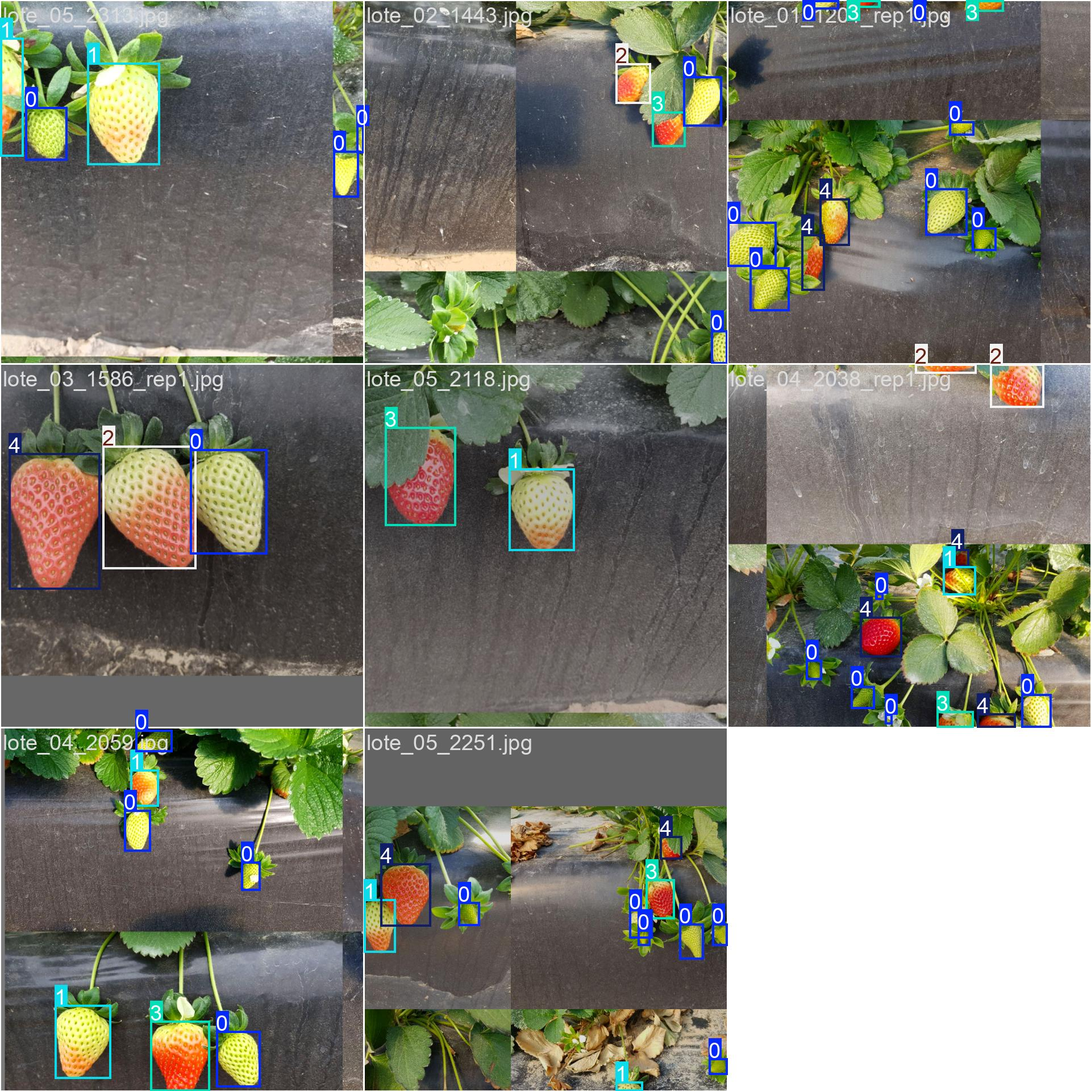
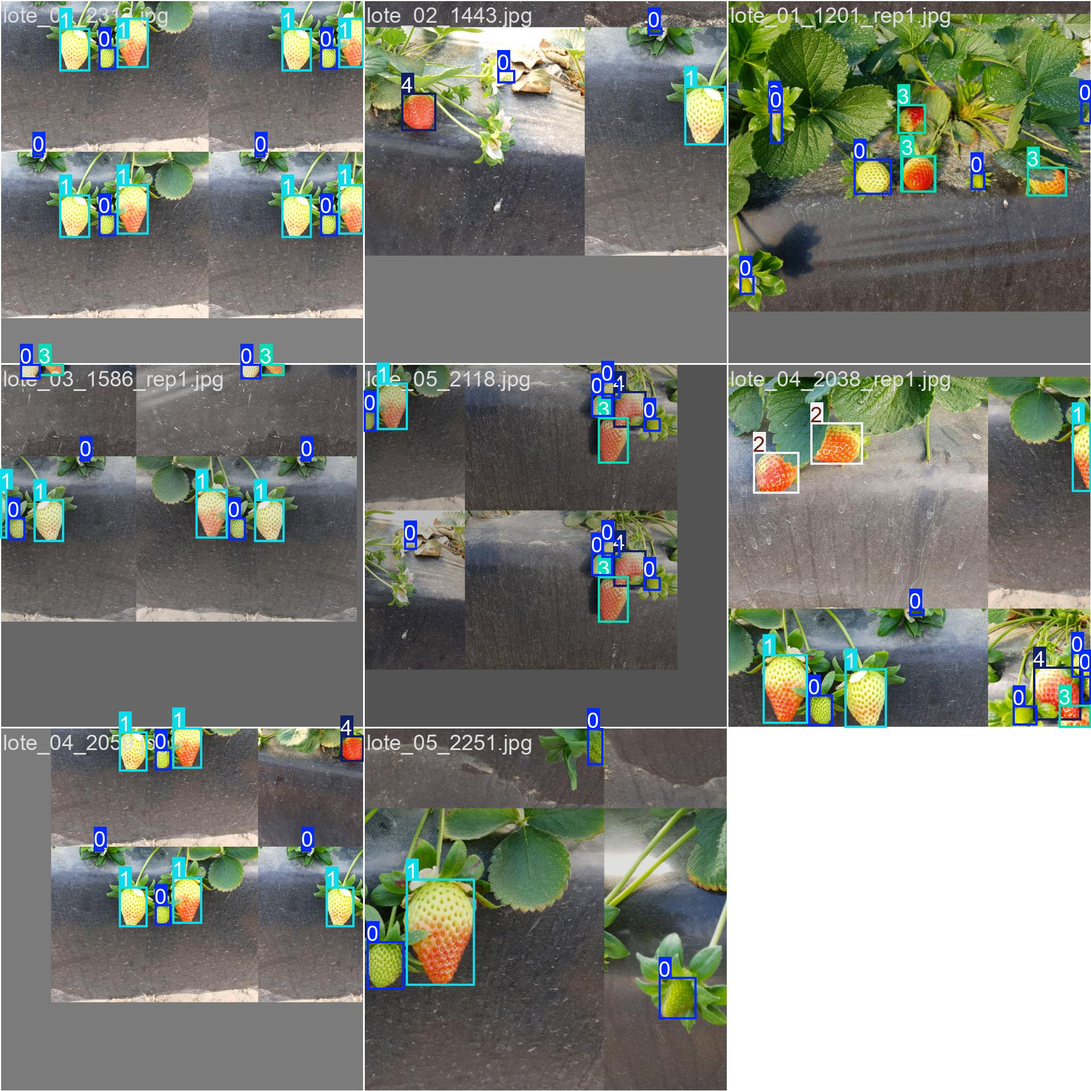
Benchmark 6lotes: 05/10 17:04

diff --git a/benchmark/6lotes/RESUMEN.md b/benchmark/6lotes/RESUMEN.md
@@ -1,6 +1,6 @@
 # Benchmark YOLO · 6lotes
 
-Actualizado 05/10/2026 17:03 (hora de Kaggle, UTC). Lotes: lote_01, lote_02, lote_03, lote_04, lote_05, lote_06. 1564 fotos. GPU: Tesla T4, Tesla T4.
+Actualizado 05/10/2026 17:04 (hora de Kaggle, UTC). Lotes: lote_01, lote_02, lote_03, lote_04, lote_05, lote_06. 1564 fotos. GPU: Tesla T4, Tesla T4.
 
 **Reparto estratificado por estado y por lote** (fotos y cajas de cada estado en cada parte):
 
@@ -17,25 +17,27 @@ En train, las fotos con cajas comerciales van repetidas (564 copias extra) y la 
 | # | Modelo | Acierto com. | Error crítico | mAP50-95 | mAP50 | P | R | val | Épocas | Min | Params (M) | GFLOPs | ms/img |
 |---|---|---|---|---|---|---|---|---|---|---|---|---|---|
 | 1 | yolov9t-1024 | 79.0 % | 7.9 % | 0.778 | 0.905 | 0.85 | 0.86 | 0.7539 | 46 (mejor 26) | 54.8 | 2.01 | 7.9 | 9.69 |
-| 2 | yolov10n-1024 | 64.5 % | 22.4 % | 0.724 | 0.854 | 0.78 | 0.84 | 0.746 | 35 (mejor 15) | 33.4 | 2.71 | 8.5 | 7.97 |
-| 3 | yolov8n-1024 | 61.2 % | 20.4 % | 0.752 | 0.880 | 0.80 | 0.86 | 0.7662 | 40 (mejor 20) | 35.0 | 3.01 | 8.2 | 7.63 |
-| 4 | yolov8n | 42.2 % | 30.9 % | 0.739 | 0.870 | 0.78 | 0.87 | 0.7516 | 45 (mejor 25) | 14.5 | 3.01 | 8.2 | 3.88 |
-| 5 | yolo26n | 36.2 % | 26.3 % | 0.744 | 0.875 | 0.84 | 0.85 | 0.7556 | 43 (mejor 23) | 19.8 | 2.51 | 5.9 | 4.94 |
-| 6 | yolov10n | 35.5 % | 39.5 % | 0.735 | 0.861 | 0.82 | 0.83 | 0.7469 | 45 (mejor 25) | 19.8 | 2.71 | 8.5 | 5.69 |
-| 7 | yolo12n | 33.6 % | 40.1 % | 0.723 | 0.848 | 0.82 | 0.84 | 0.7471 | 58 (mejor 49) ⏱ | 27.5 | 2.57 | 7.5 | 6.19 |
-| 8 | yolov9e | 32.9 % | 39.5 % | 0.753 | 0.891 | 0.82 | 0.88 | 0.7423 | 36 (mejor 16) | 109.2 | 58.15 | 192.7 | 56.36 |
-| 9 | yolo11n-hsv-1024 | 32.3 % | 34.2 % | 0.740 | 0.866 | 0.82 | 0.83 | 0.7576 | 58 (mejor 38) | 43.8 | 2.59 | 6.5 | 7.5 |
-| 10 | yolo12x | 31.6 % | 38.2 % | 0.764 | 0.892 | 0.81 | 0.89 | 0.763 | 48 (mejor 28) | 147.0 | 59.12 | 209.7 | 68.28 |
-| 11 | yolo11n-1024 | 28.9 % | 38.2 % | 0.761 | 0.890 | 0.86 | 0.78 | 0.7557 | 46 (mejor 26) | 39.6 | 2.59 | 6.5 | 8.08 |
-| 12 | yolo11n-hsv | 28.3 % | 34.9 % | 0.719 | 0.853 | 0.80 | 0.85 | 0.7516 | 36 (mejor 16) | 14.2 | 2.59 | 6.5 | 5.4 |
-| 13 | yolov9t | 25.6 % | 38.8 % | 0.748 | 0.877 | 0.78 | 0.87 | 0.7612 | 44 (mejor 33) ⏱ | 27.4 | 2.01 | 7.9 | 6.1 |
-| 14 | yolo11n | 25.0 % | 44.1 % | 0.728 | 0.869 | 0.80 | 0.80 | 0.7417 | 27 (mejor 7) | 10.5 | 2.59 | 6.5 | 4.3 |
+| 2 | yolo12n-1024 | 72.4 % | 12.5 % | 0.729 | 0.857 | 0.80 | 0.84 | 0.7445 | 43 (mejor 23) | 54.4 | 2.57 | 7.5 | 12.91 |
+| 3 | yolov10n-1024 | 64.5 % | 22.4 % | 0.724 | 0.854 | 0.78 | 0.84 | 0.746 | 35 (mejor 15) | 33.4 | 2.71 | 8.5 | 7.97 |
+| 4 | yolov8n-1024 | 61.2 % | 20.4 % | 0.752 | 0.880 | 0.80 | 0.86 | 0.7662 | 40 (mejor 20) | 35.0 | 3.01 | 8.2 | 7.63 |
+| 5 | yolov8n | 42.2 % | 30.9 % | 0.739 | 0.870 | 0.78 | 0.87 | 0.7516 | 45 (mejor 25) | 14.5 | 3.01 | 8.2 | 3.88 |
+| 6 | yolo26n | 36.2 % | 26.3 % | 0.744 | 0.875 | 0.84 | 0.85 | 0.7556 | 43 (mejor 23) | 19.8 | 2.51 | 5.9 | 4.94 |
+| 7 | yolov10n | 35.5 % | 39.5 % | 0.735 | 0.861 | 0.82 | 0.83 | 0.7469 | 45 (mejor 25) | 19.8 | 2.71 | 8.5 | 5.69 |
+| 8 | yolo12n | 33.6 % | 40.1 % | 0.723 | 0.848 | 0.82 | 0.84 | 0.7471 | 58 (mejor 49) ⏱ | 27.5 | 2.57 | 7.5 | 6.19 |
+| 9 | yolov9e | 32.9 % | 39.5 % | 0.753 | 0.891 | 0.82 | 0.88 | 0.7423 | 36 (mejor 16) | 109.2 | 58.15 | 192.7 | 56.36 |
+| 10 | yolo11n-hsv-1024 | 32.3 % | 34.2 % | 0.740 | 0.866 | 0.82 | 0.83 | 0.7576 | 58 (mejor 38) | 43.8 | 2.59 | 6.5 | 7.5 |
+| 11 | yolo12x | 31.6 % | 38.2 % | 0.764 | 0.892 | 0.81 | 0.89 | 0.763 | 48 (mejor 28) | 147.0 | 59.12 | 209.7 | 68.28 |
+| 12 | yolo11n-1024 | 28.9 % | 38.2 % | 0.761 | 0.890 | 0.86 | 0.78 | 0.7557 | 46 (mejor 26) | 39.6 | 2.59 | 6.5 | 8.08 |
+| 13 | yolo11n-hsv | 28.3 % | 34.9 % | 0.719 | 0.853 | 0.80 | 0.85 | 0.7516 | 36 (mejor 16) | 14.2 | 2.59 | 6.5 | 5.4 |
+| 14 | yolov9t | 25.6 % | 38.8 % | 0.748 | 0.877 | 0.78 | 0.87 | 0.7612 | 44 (mejor 33) ⏱ | 27.4 | 2.01 | 7.9 | 6.1 |
+| 15 | yolo11n | 25.0 % | 44.1 % | 0.728 | 0.869 | 0.80 | 0.80 | 0.7417 | 27 (mejor 7) | 10.5 | 2.59 | 6.5 | 4.3 |
 
 **AP50 por clase (test)**
 
 | Modelo | unripe | early-pink | commercial-basic | commercial-high | overripe |
 |---|---|---|---|---|---|
 | yolov9t-1024 | 0.99 | 0.91 | 0.81 | 0.85 | 0.97 |
+| yolo12n-1024 | 0.99 | 0.90 | 0.65 | 0.79 | 0.96 |
 | yolov10n-1024 | 0.99 | 0.88 | 0.69 | 0.76 | 0.95 |
 | yolov8n-1024 | 0.99 | 0.89 | 0.75 | 0.80 | 0.96 |
 | yolov8n | 0.98 | 0.90 | 0.74 | 0.79 | 0.94 |
@@ -56,6 +58,8 @@ En train, las fotos con cajas comerciales van repetidas (564 copias extra) y la 
 |---|---|---|---|---|---|---|---|---|
 | yolov9t-1024 | commercial-basic | 51 | 74.5 | **3.9** | **0.0** | 21.6 | 0.0 | 0.0 |
 | yolov9t-1024 | commercial-high | 101 | 81.2 | **0.0** | **9.9** | 8.9 | 0.0 | 0.0 |
+| yolo12n-1024 | commercial-basic | 51 | 76.5 | **9.8** | **0.0** | 13.7 | 0.0 | 0.0 |
+| yolo12n-1024 | commercial-high | 101 | 70.3 | **0.0** | **13.9** | 15.8 | 0.0 | 0.0 |
 | yolov10n-1024 | commercial-basic | 51 | 66.7 | **7.8** | **0.0** | 25.5 | 0.0 | 0.0 |
 | yolov10n-1024 | commercial-high | 101 | 63.4 | **0.0** | **29.7** | 5.9 | 0.0 | 1.0 |
 | yolov8n-1024 | commercial-basic | 51 | 60.8 | **13.7** | **0.0** | 25.5 | 0.0 | 0.0 |
@@ -94,9 +98,8 @@ En train, las fotos con cajas comerciales van repetidas (564 copias extra) y la 
 
 **Sin resultado todavía**
 
-- yolo12n-1024: entrenando
 - yolo26n-1024: entrenando
-- yolov8x: pendiente
+- yolov8x: entrenando
 - yolov10x: pendiente
 - yolo11x: pendiente
 - yolo26x: pendiente
